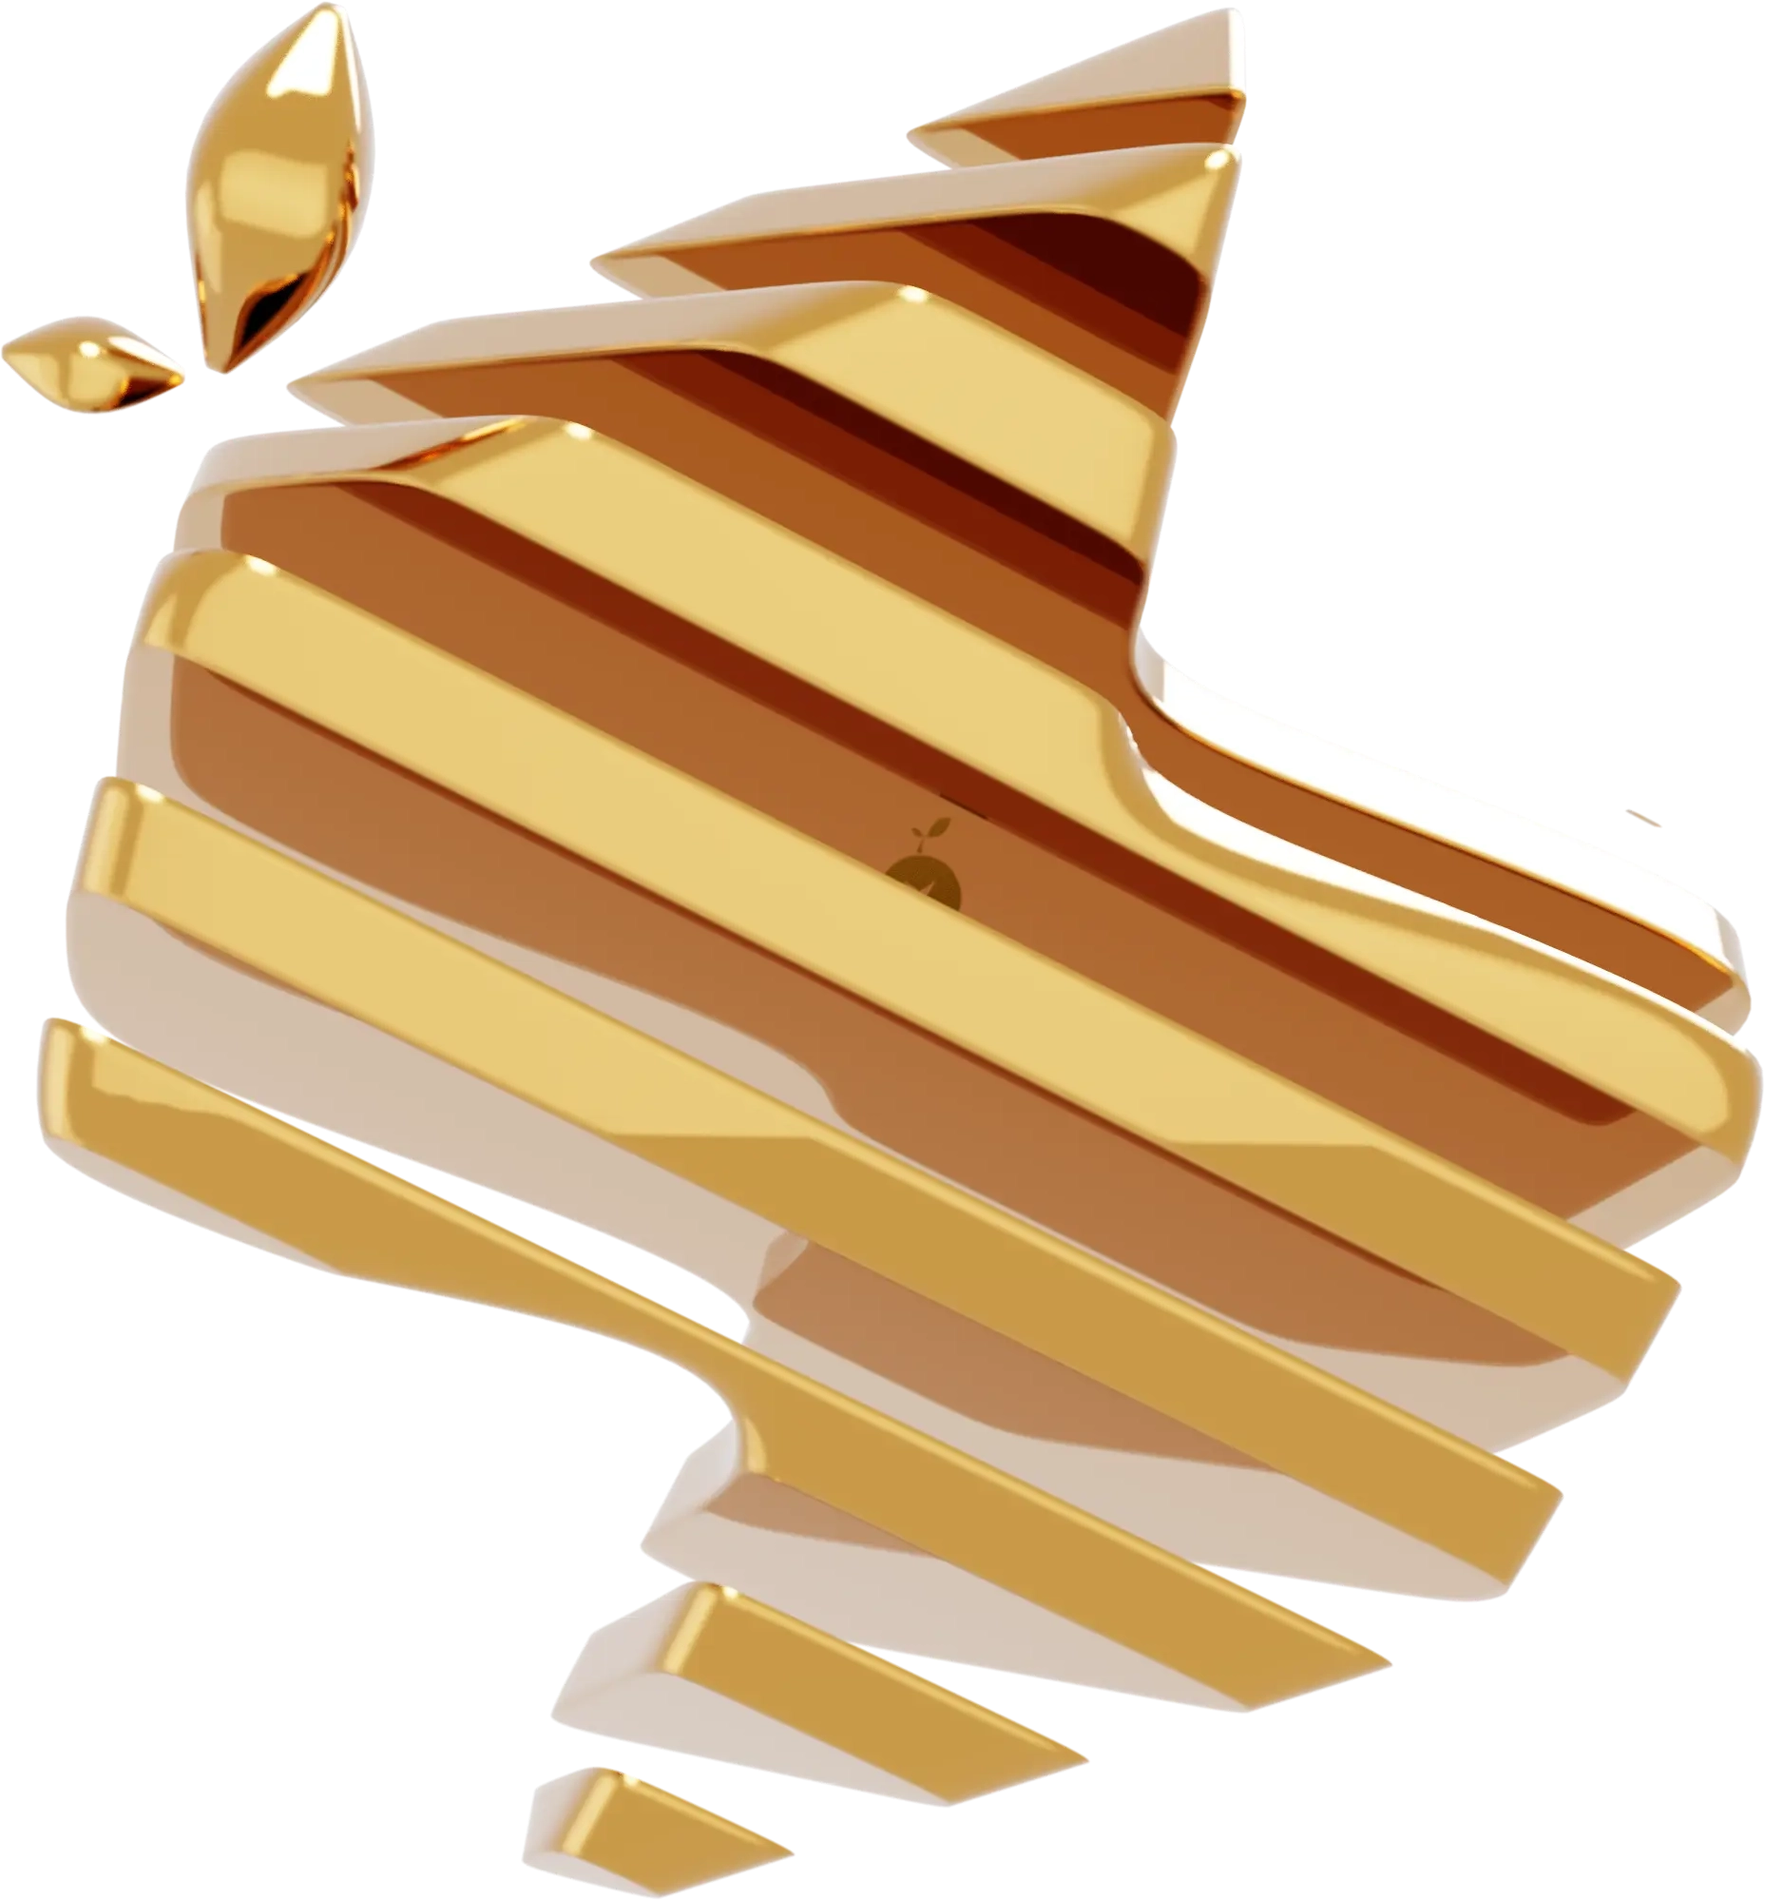
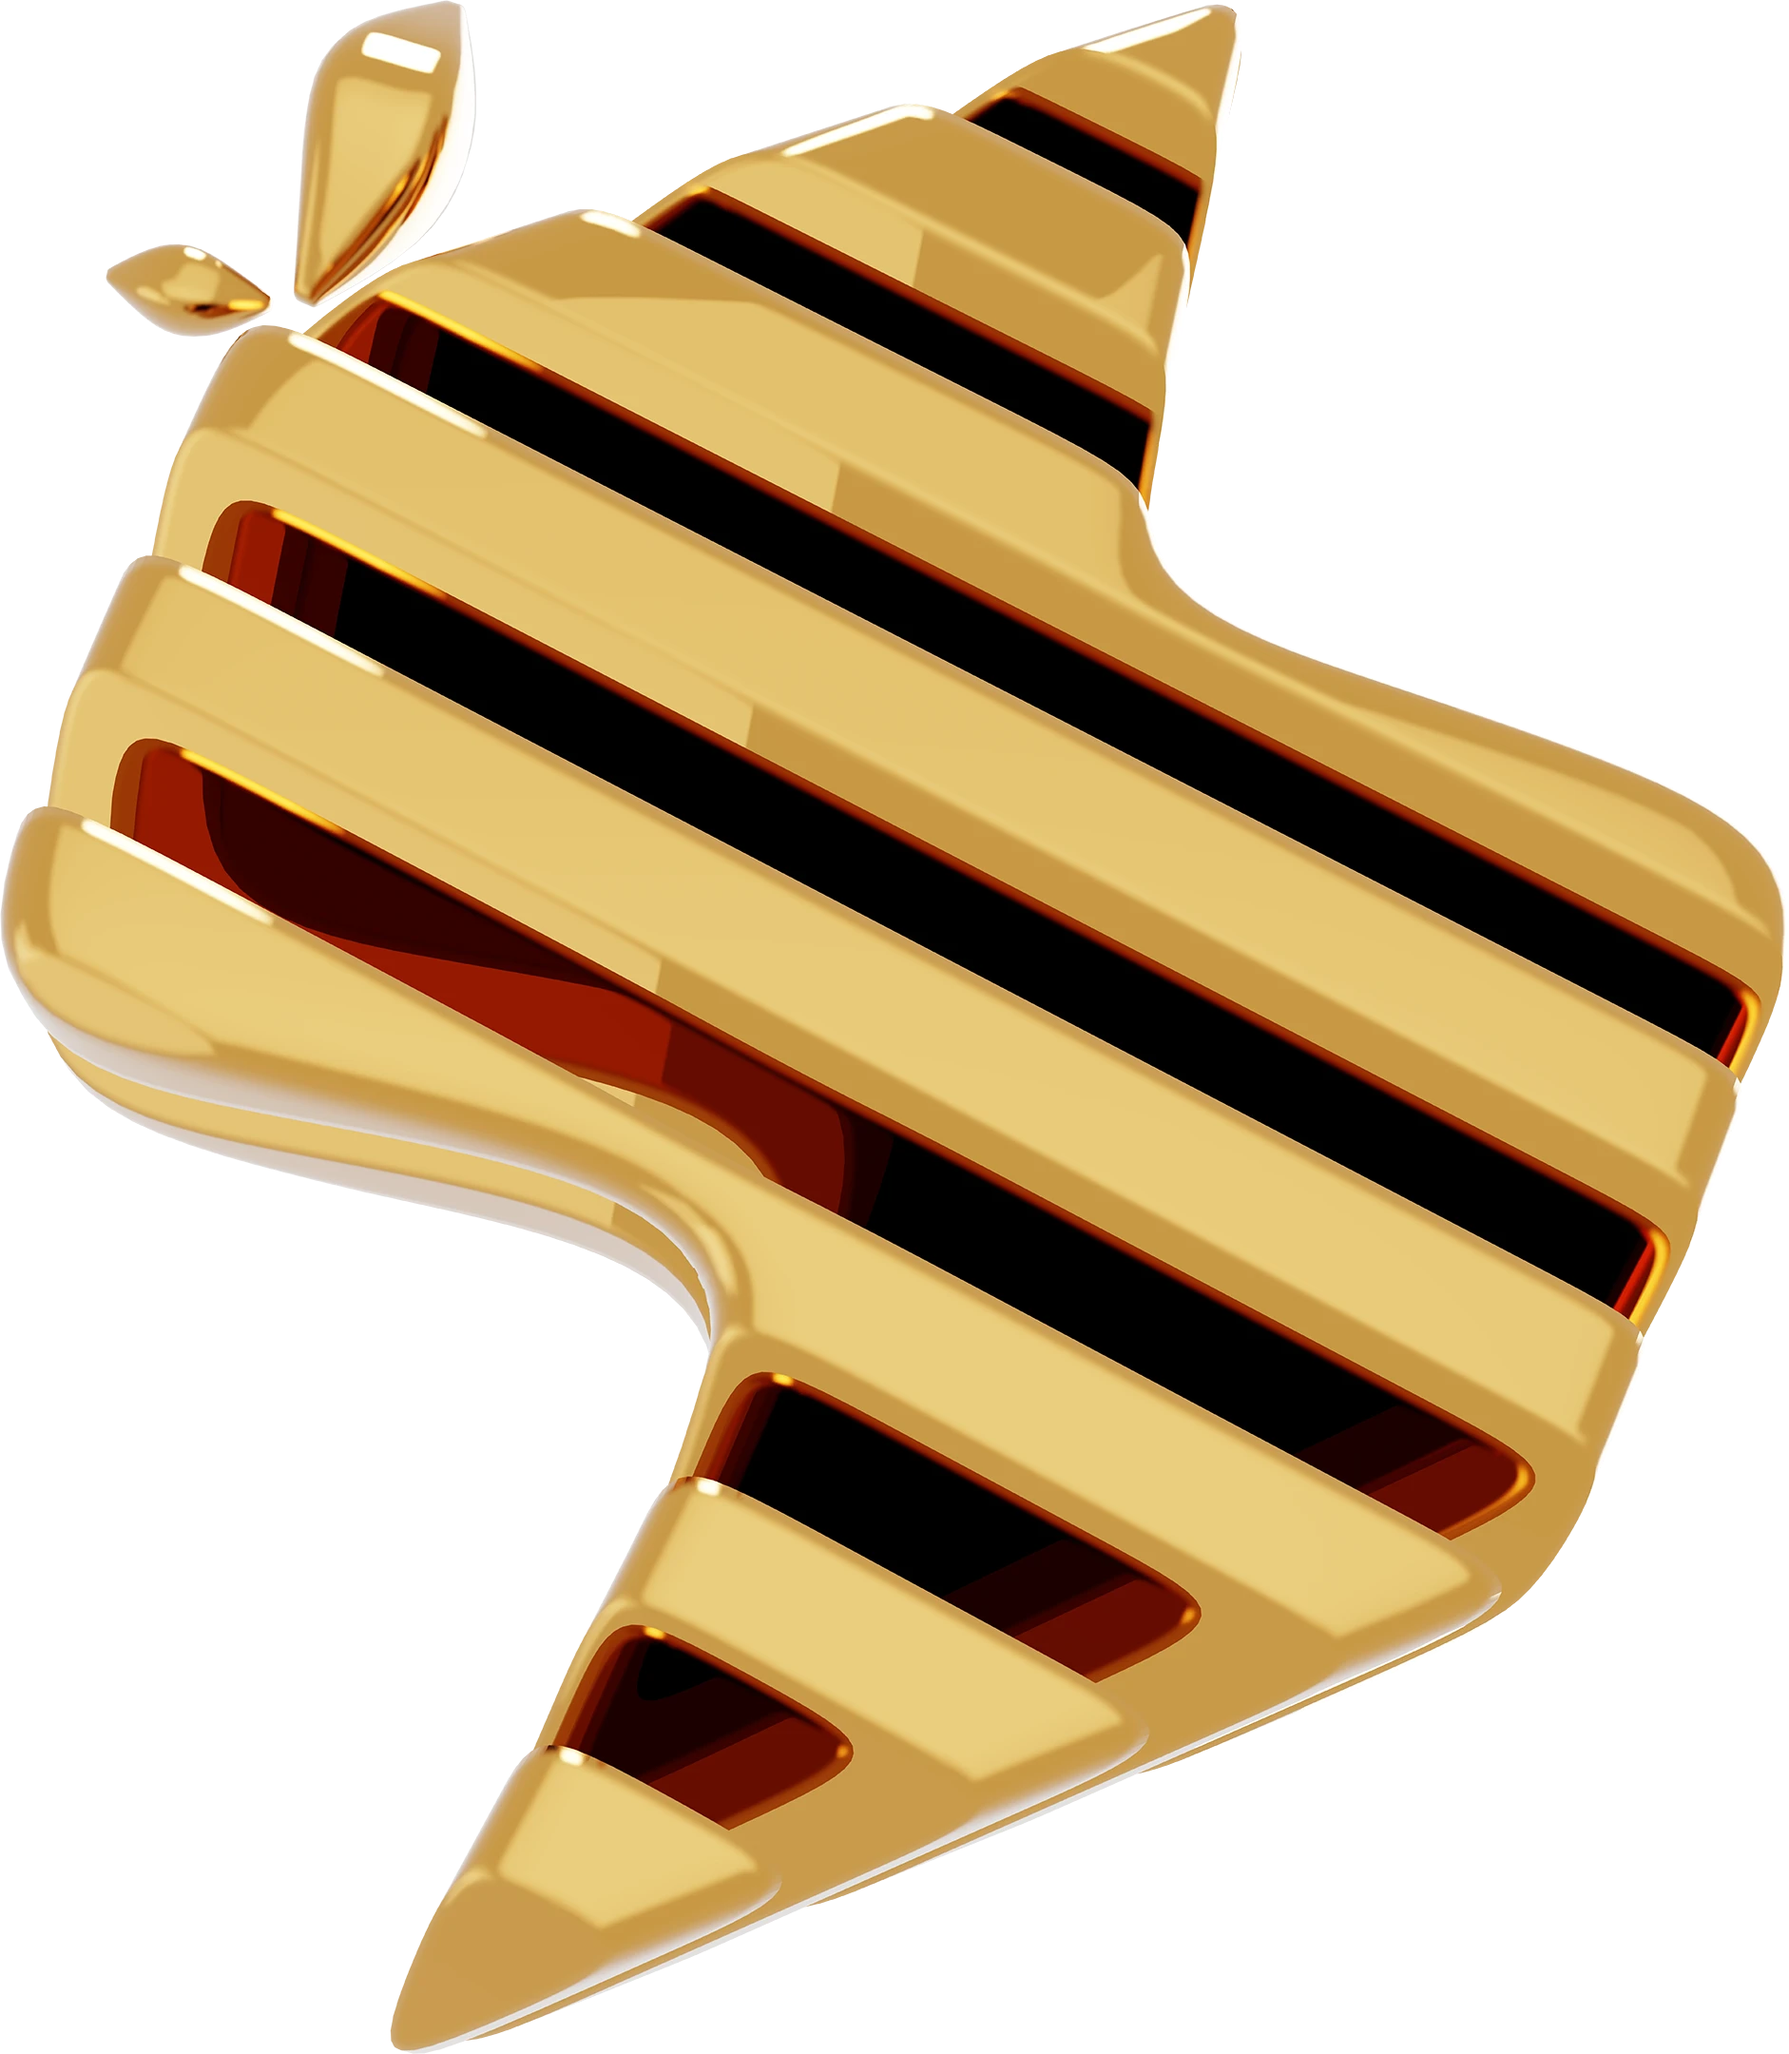
updated HeroBgImage

diff --git a/app/cfp/(submit)/submit/page.tsx b/app/cfp/(submit)/submit/page.tsx
@@ -1,9 +1,13 @@
 "use client";
-import { useReducer } from "react";
+import { useReducer, useRef } from "react";
 import { twMerge } from "tailwind-merge";
-import { motion, AnimatePresence } from "framer-motion";
-import Image from "next/image";
-
+import {
+  motion,
+  AnimatePresence,
+  useScroll,
+  useTransform,
+  useSpring,
+} from "framer-motion";
 import Title from "@/components/cfp/Title";
 import Event, { EventType } from "@/components/cfp/Event";
 
@@ -66,7 +70,30 @@ function Countdown() {
     </div>
   );
 }
+function HeroBgImage() {
+  const ref = useRef<HTMLDivElement>(null);
+  const { scrollYProgress } = useScroll();
+  const y = useTransform(scrollYProgress, [0, 0.5, 1], [250, 100, 0]);
+  const skew = useTransform(scrollYProgress, [0, 1], [0, -10]);
+  const x = useTransform(scrollYProgress, [0, 1], [0, 100]);
 
+  return (
+    <div
+      className="w-[calc(100vw-70%)] xl:w-[calc(100vw-60%)] -z-10 fixed bottom-0 right-0"
+      ref={ref}
+    >
+      <motion.img
+        src="/hero_corner.webp"
+        className="w-full"
+        style={{
+          x,
+          y,
+          skew,
+        }}
+      />
+    </div>
+  );
+}
 export default function Page() {
   const [type, toggleType] = useReducer(
     (state: EventType | "", action: EventType | "") => {
@@ -179,16 +206,7 @@ export default function Page() {
         </div>
       </div>
 
-      {/* hero bg image */}
-      <div className="w-[calc(100vw-70%)] xl:w-[calc(100vw-60%)] h-[900px] overflow-hidden top-0 left-0 mt-[920px] ml-[70%] xl:ml-[60%] absolute -z-10 hidden lg:block">
-        <Image
-          src="/hero_bg.webp"
-          width={1857}
-          height={1998}
-          alt=""
-          className="max-w-[unset]"
-        />
-      </div>
+      <HeroBgImage />
     </div>
   );
 }
